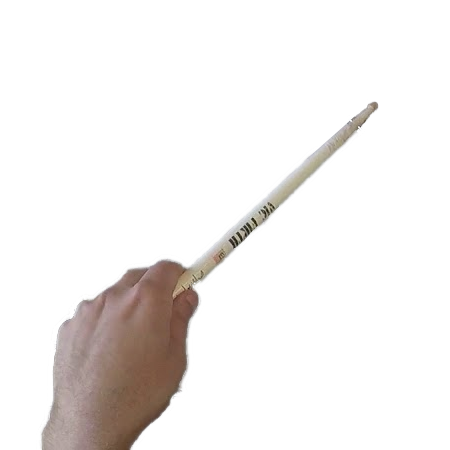
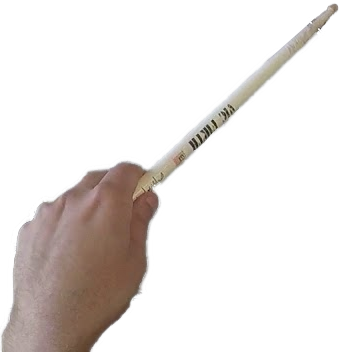
added hands movment

Changed region(s): [[0.0, 0.0, 0.9913, 1.0]]

diff --git a/src/Soundclass.js b/src/Soundclass.js
@@ -28,6 +28,8 @@ import bgi11 from './images/backgrounds/11.jpg'
 import gameover from './images/gameover.png'
 import gameoverText from './images/gameovericon.png'
 import homeIcon from './images/homeicon.png'
+import lhimage from './images/lh.png'
+import rhimage from './images/rh.png'
 import tunnel from './images/tunnel.png' 
 
 let isBeingPress;
@@ -266,6 +268,11 @@ export default class extends Component {
           default:
         }
       }
+      const element = document.getElementById('rightHand')
+      if (element !== null){
+        var newElm = element.cloneNode(true)
+        element.parentNode.replaceChild(newElm, element);
+      }
     }
   }
 
@@ -335,7 +342,10 @@ export default class extends Component {
             <div style={{fontSize: 18}}>
               watch out for the tunnels
             </div>
-            
+            <div className="hands">
+              <img src={lhimage} className="hand1" alt="logo"/>
+              <img id="rightHand" width='100' src={rhimage} className="hand2" alt="logo"/>
+            </div>
             <span className="canvas-start-background" onClick={this.restartGame}>
               <svg width="300" height="150" fill={'#795548'}>
                 <rect x="0" y="0" rx="20" ry="20" width="300" height="150" />
@@ -361,6 +371,10 @@ export default class extends Component {
             {this.state.pressedState === 'green'
               ? <img src={choosenHapIm} className={`full-screen-image${brigthness}`}  alt="logo" />
               : <img src={choosenMadIm} className={`full-screen-image${brigthness}`} alt="logo" />}
+            <div className="hands">
+              <img src={lhimage} className="hand1" alt="logo"/>
+              <img id="rightHand" src={rhimage} className="hand2" alt="logo"/>
+            </div>
             <div className="App-background" style={{left: window.innerHeight*1.75}}/>
             <div className="canvas-background">
               <svg width="500" height="60" fill={'pink'}>

diff --git a/src/Soundclass.css b/src/Soundclass.css
@@ -170,20 +170,26 @@
   transform: translate(-50%, 0);
 }
 
+.hands {
+  position: absolute;
+  bottom: 0%;
+  z-index: 6;
+  left: 35%;
+}
+
 .hand1 {
-  height: 10vmin;
-  pointer-events: none;
-  z-index: 1;
-  left: 500;
+  position: relative;
 }
 
 .hand2 {
-  height: 5vmin;
-  pointer-events: none;
-  z-index: 1;
+  position: relative;
+  left: 10%;
 }
 
 @media (prefers-reduced-motion: no-preference) {
+  .hand2 {
+    animation: hand-spin 250ms linear;
+  }
   .App-logo {
     animation: App-logo-spin infinite 20s linear;
   }
@@ -214,6 +220,15 @@
 
 .App-link {
   color: #61dafb;
+}
+
+@keyframes hand-spin {
+  from {
+    transform: rotate(-15deg) translate(-120%,-8%);
+  }
+  to {
+    transform: rotate(0deg) translate(0%,0);
+  }
 }
 
 @keyframes App-logo-spin {
